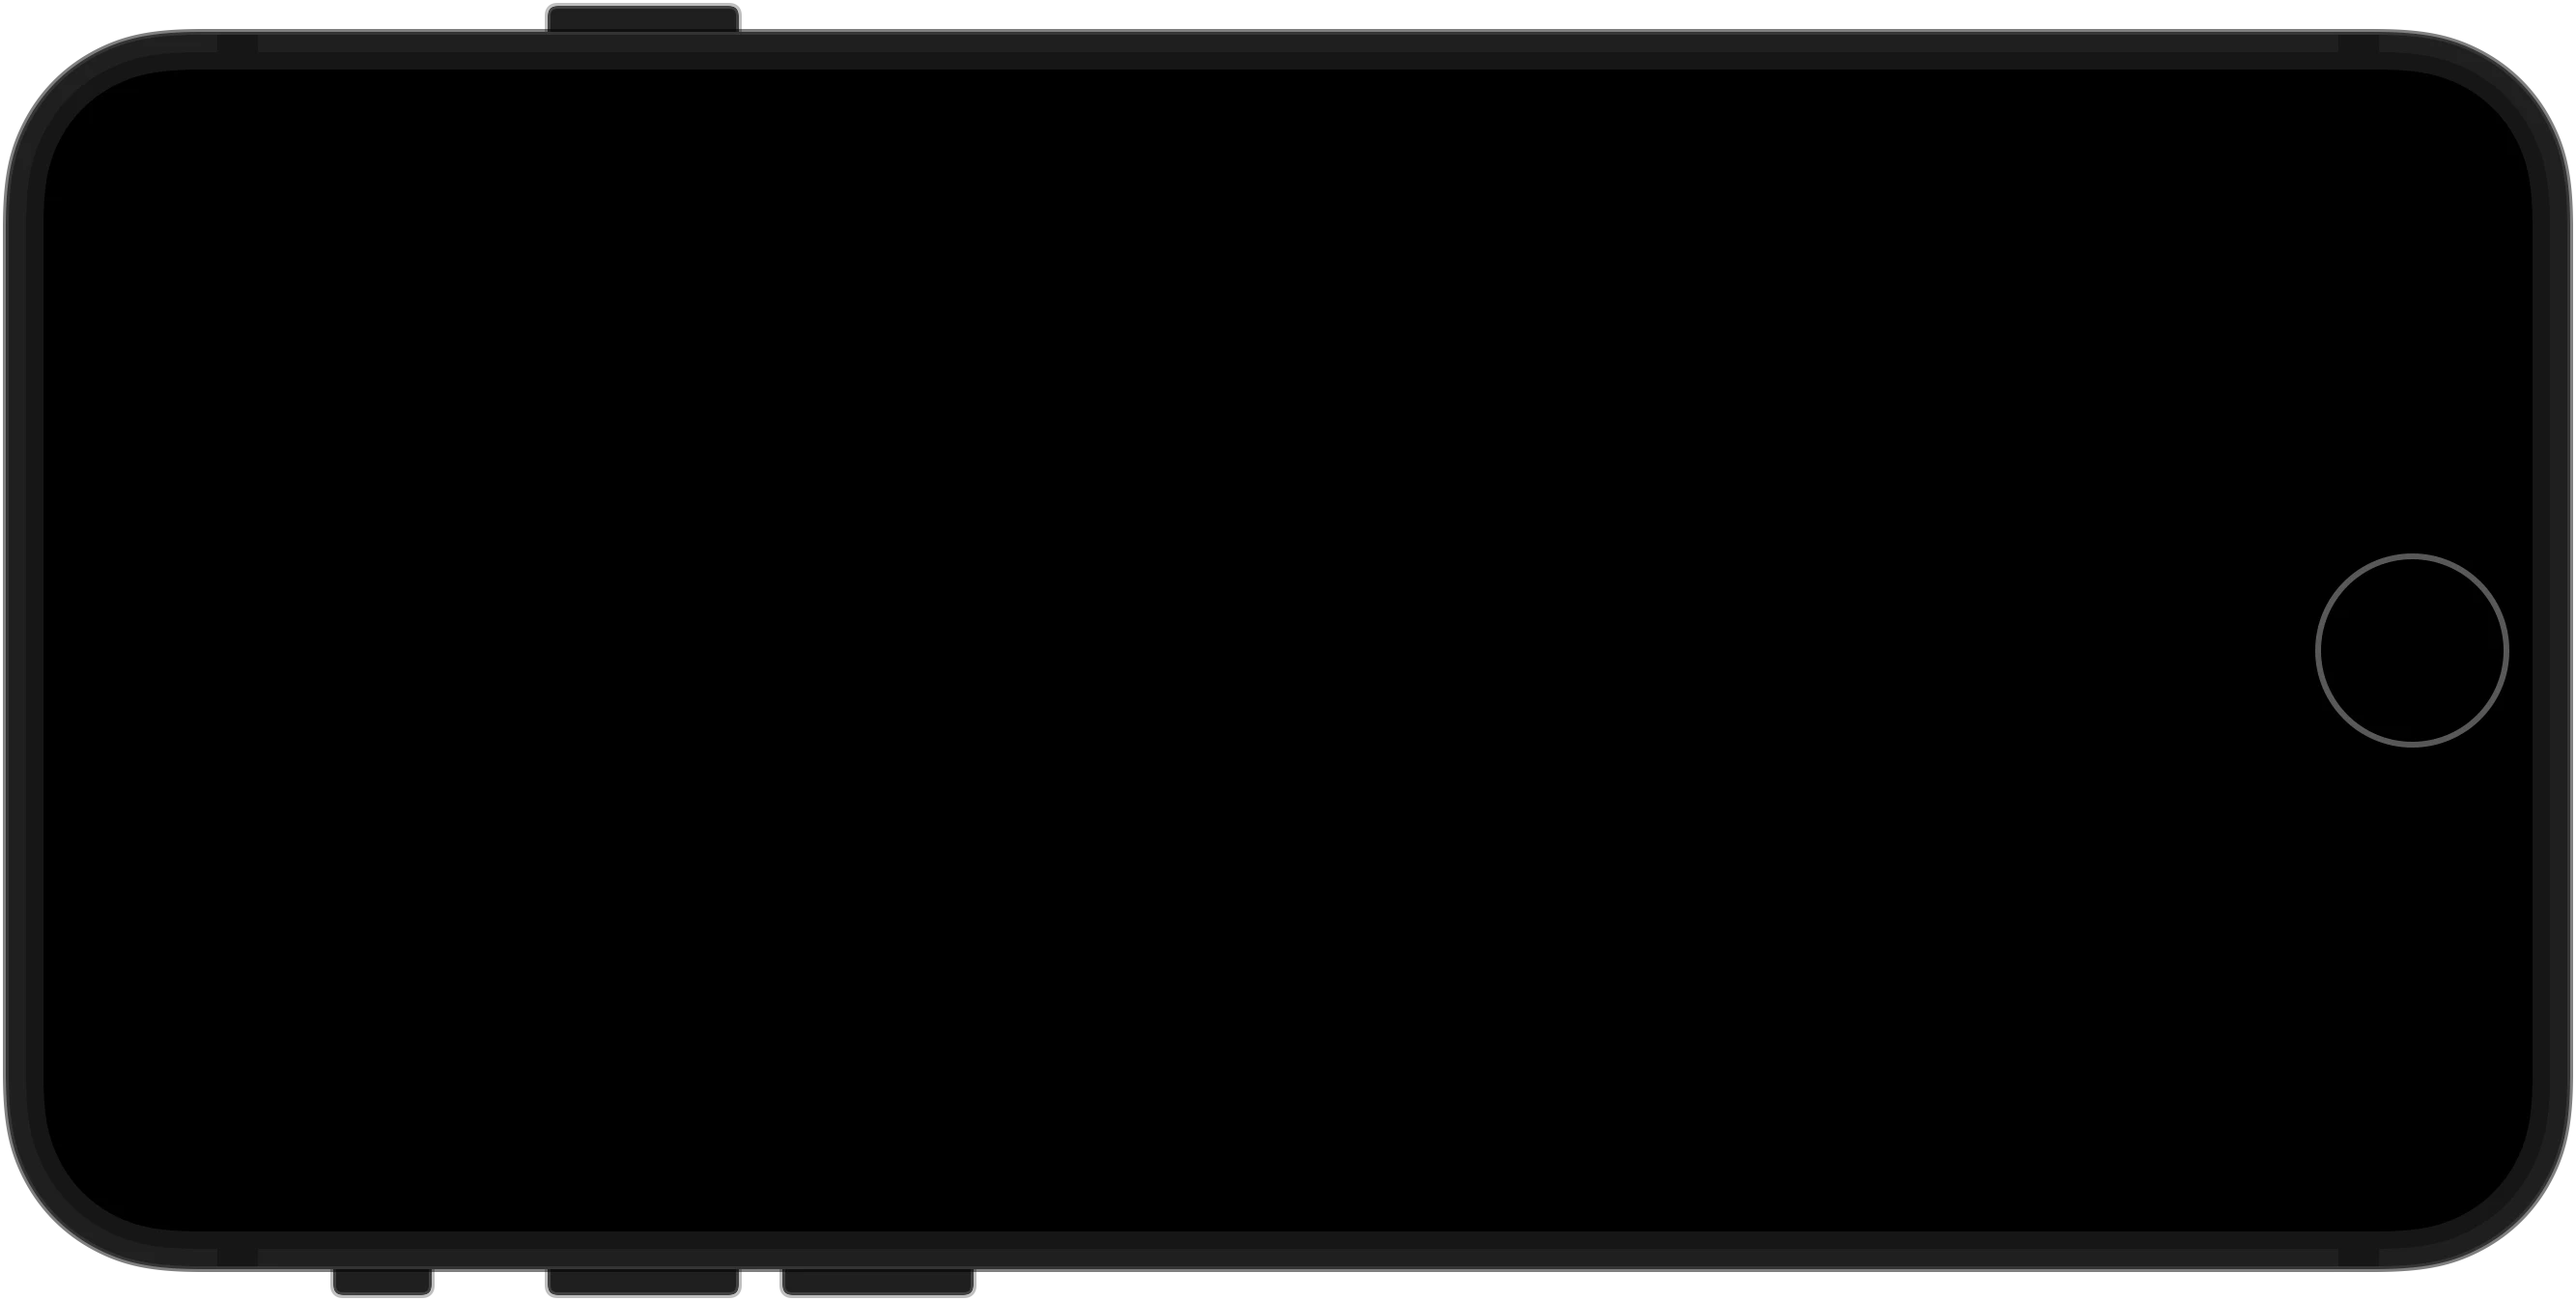
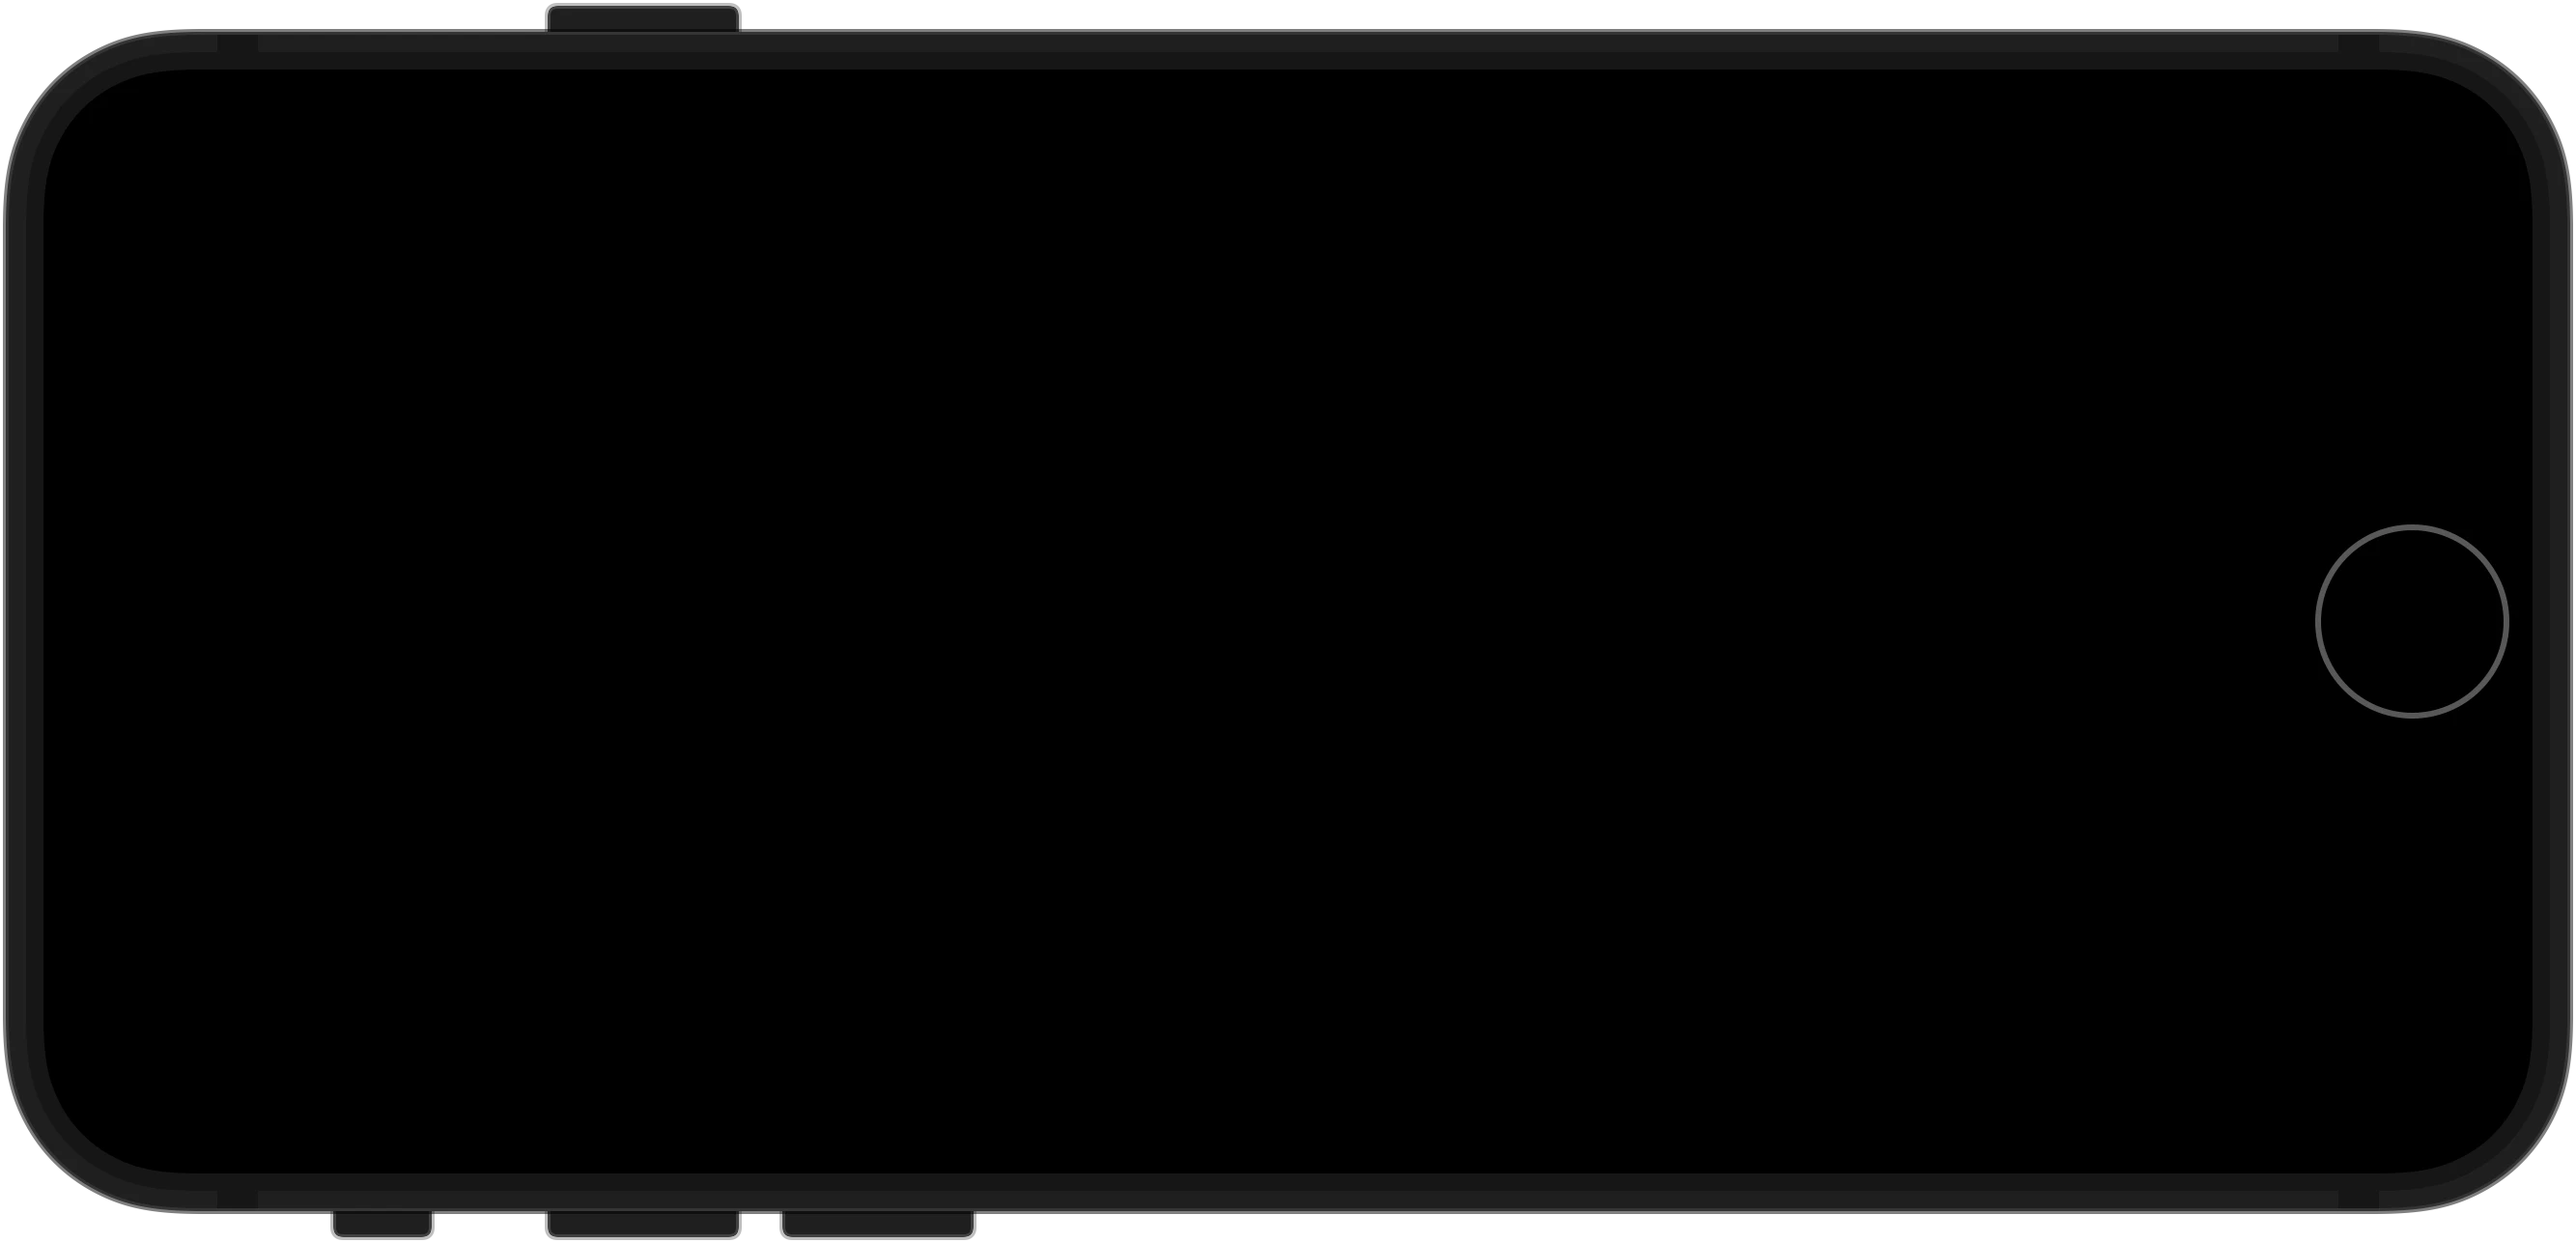
feat(ui): slim the iPhone SE frame's side bezels to 18 points
Simulator's 28-point sides read heavy at streaming size.

diff --git a/packages/ui/src/components/remote-control.tsx b/packages/ui/src/components/remote-control.tsx
@@ -380,7 +380,8 @@ const deviceConfig: Record<DevicePlatform, DeviceConfig> = {
 };
 
 // The iPhone SE and iPhone 17e artwork is Simulator's own device chrome around the screen, so the
-// screen openings are exact: 375 × 667 points in a 449 × 889 frame, and 390 × 844 in a 452 × 888 one.
+// screen openings are exact: 375 × 667 points in a 429 × 889 frame, and 390 × 844 in a 452 × 888 one.
+// The SE's side bezels are 18 points instead of Simulator's 28, which looked heavy at streaming size.
 // The SE screen has square corners; the 17e's have a radius of about 47 points.
 const iosModelConfig: Record<FramedIOSModel, DeviceConfig> = {
   'iphone-se': {

diff --git a/packages/ui/src/components/remote-control-layout.test.tsx b/packages/ui/src/components/remote-control-layout.test.tsx
@@ -98,7 +98,7 @@ it('fits the tablet screen opening after metadata, rotation and container resizi
 
 it.each([
   // Simulator's chrome around a 375 × 667 screen with square corners, drawn at 3x.
-  { model: 'iphone-se', art: 'iphonese', frame: [1347, 2667], screen: 667 / 889, radius: 0 },
+  { model: 'iphone-se', art: 'iphonese', frame: [1287, 2667], screen: 667 / 889, radius: 0 },
   // A 390 × 844 screen with rounded corners in a 452 × 888 frame, drawn at 3x.
   { model: 'iphone-17e', art: 'iphone17e', frame: [1356, 2664], screen: 844 / 888, radius: 47.33 / 452 },
 ] as const)(
